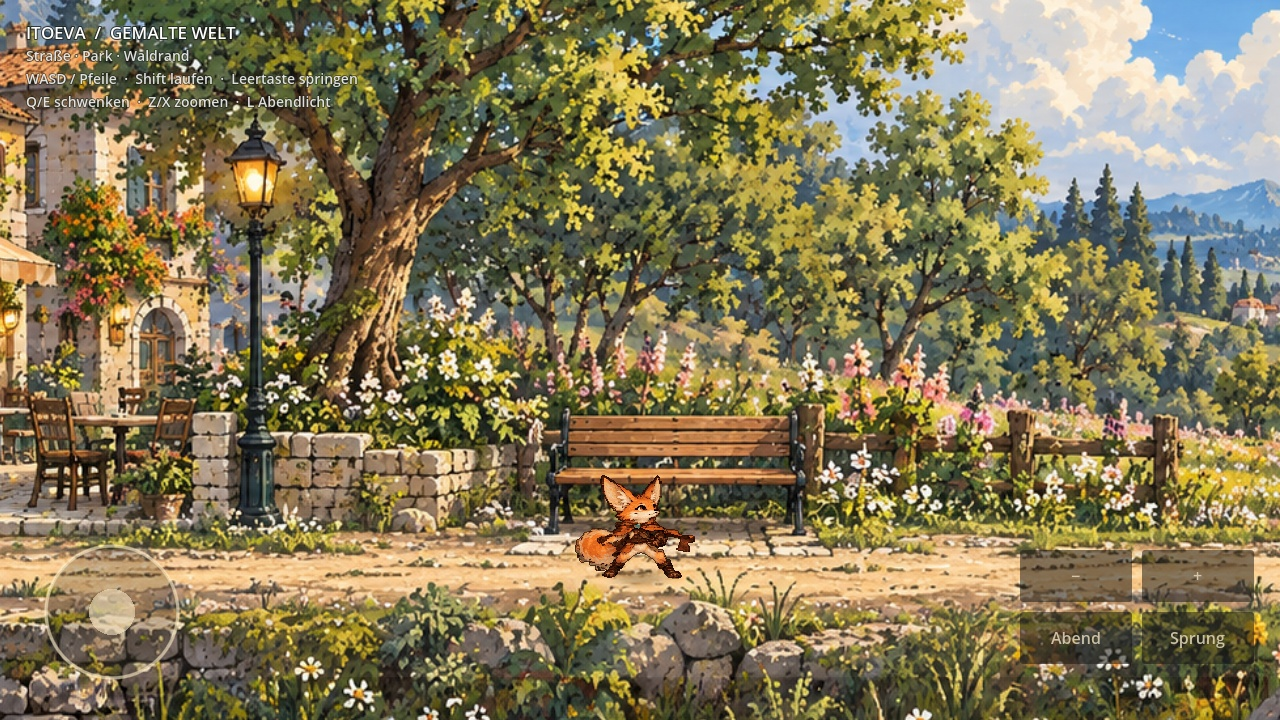
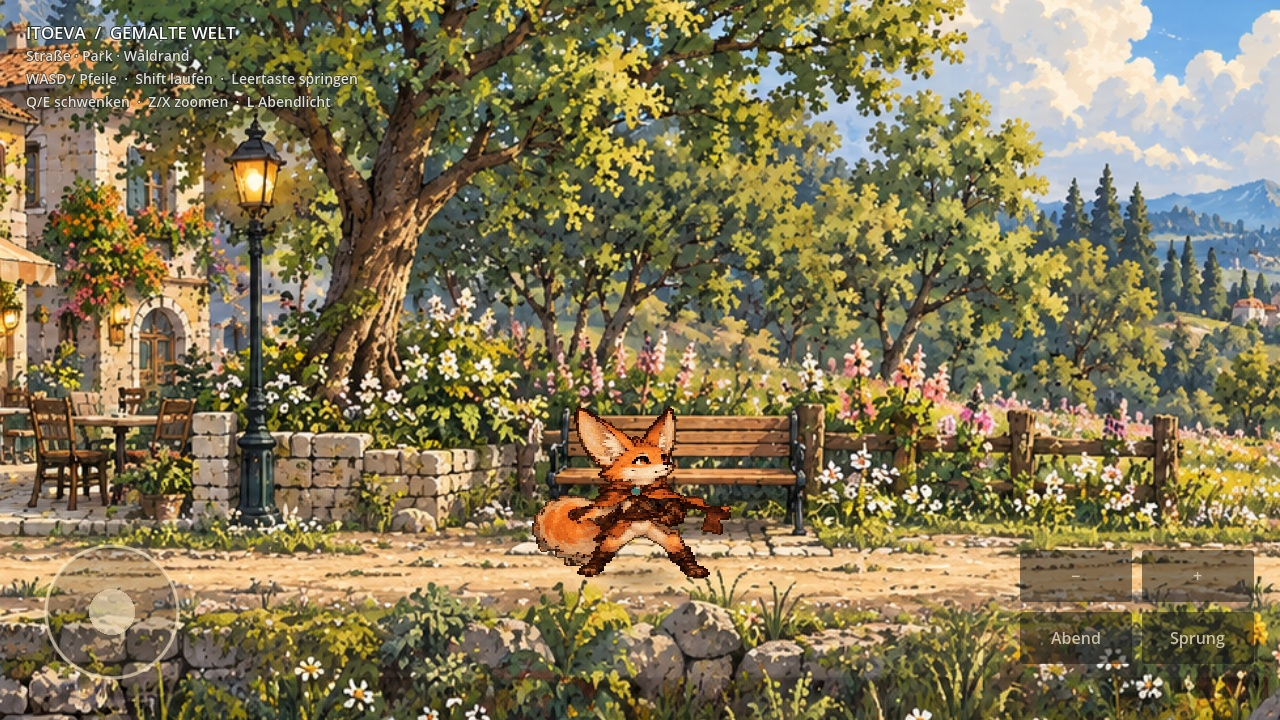
Build Godot Android prototype and match Fennec scale to painted world

Changed region(s): [[0.4062, 0.55, 0.5938, 0.825]]

diff --git a/prototypes/godot-hd2d/README.md b/prototypes/godot-hd2d/README.md
@@ -9,7 +9,24 @@ Basis: `main` auf `124186c77f20954321008b0bf373a1527562f11a`.
 In **Godot 4.5.1** `project.godot` importieren und mit F6/F5 starten.
 Die benoetigten Bilder liegen bereits im Projekt; Python wird zum Spielen nicht gebraucht.
 Desktop: `godot --path prototypes/godot-hd2d` aus dem Repository.
-Der Compatibility-Renderer funktioniert ohne Vulkan; Android ist das spaetere Testziel.
+Der Compatibility-Renderer funktioniert ohne Vulkan. Die Test-APK unterstuetzt
+ARM64-Geraete ab Android 7 und startet als separate App **Itoeva Godot**.
+
+## Android-APK v0.1.2
+
+Godot 4.5.1 mit Android-Exportvorlagen, Java 17 und Android SDK Build-Tools 35.0.1
+verwenden. Java-/SDK-Pfade und den eigenen Debug-Keystore in den Editor-Einstellungen
+eintragen; keine Schluessel ins Repository kopieren.
+
+```bash
+godot --headless --path prototypes/godot-hd2d --export-debug Android /absoluter/pfad/Itoeva_Godot_HD2D_v0.1.2.apk
+```
+
+Das Exportpreset baut eine signierte Debug-APK mit Paket `com.itoeva.godot.hd2d`,
+Version 0.1.2 / Code 2, ARM64, Querformat und ohne Internetberechtigung.
+Tests, Vorschauen und Capture-Dateien werden ausgeschlossen. Die ausgelieferte
+APK ist 31.024.552 Bytes gross; ZIP-Integritaet und APK-Signatur v2/v3 sind geprueft.
+Ein Start auf einem Android-Telefon ist noch nicht geprueft.
 
 | Eingabe | Wirkung |
 |---|---|
@@ -31,6 +48,9 @@ Der Compatibility-Renderer funktioniert ohne Vulkan; Android ist das spaetere Te
   Zeile in einen 12x12-Atlas umgepackt. 1536px statt 17664px Breite vermeiden mobile
   Texturlimits. Fussanker 126, Richtungen und Rollen aus `CreatureSprites.Rich`.
   Naechste-Nachbar-Filter, aufrechte 2D-Karte (`Sprite3D`), keine 3D-Figur und kein Rig.
+  Pixelmassstab 0.020 beruecksichtigt die 35-Grad-Kamera: die Kopf-/Fuss-Spanne
+  entspricht rund 87 Bildpixeln in der nativen 640px-Kulisse, innerhalb ihrer
+  65..108px-Tiefenskalierung. Kollisionskoerper und Bodenschatten sind angepasst.
 - Echter `CharacterBody3D`, begehbarer Boden, Kartenraender, Bank und Lampensockel;
   Bank kann als erhoehte Standflaeche genutzt werden. Schatten folgt der Standflaeche.
 - Sanfte orthografische Folge-Kamera, Zoom und begrenzter Schwenk. Die Original-
@@ -48,8 +68,9 @@ godot --headless --path prototypes/godot-hd2d --script res://tests/smoke.gd
 godot --path prototypes/godot-hd2d --script res://tests/capture.gd
 ```
 
-`smoke.gd` prueft mit echter Godot-Physik Boden, Bewegung, Bank, Sprung/Landung,
-Standflaechenschatten, Kartenraender, Kamerasicht an beiden Raendern bei kleinem Zoom,
+`smoke.gd` prueft in 43 Checks den projizierten Figurenmassstab und mit echter Godot-Physik Boden, Bewegung, Bank, Sprung/Landung,
+Standflaechenschatten, Kartenraender und die ganze Spritekarte an beiden Raendern
+bei beiden Zoomgrenzen, drei Schwenkwinkeln und vorderem/hinterem Laufstreifen,
 Lichtwechsel sowie zwei gleichzeitig eingespeiste ScreenTouch-Ereignisse.
 `capture.gd` schreibt echte Godot-Renderings nach `captures/` (nicht eingecheckt).
 Die ausgewaehlten Renderings stehen in `preview/`. Sie sind Desktop-Aufnahmen mit
@@ -67,7 +88,7 @@ der Originalmalerei bleiben eingebrannt; Bankverdeckung und ihr Sitzanker sind
 naeherungsweise, eine allgemeine Tiefenmaske fuer jedes Blatt/Moebel fehlt noch.
 Blatt-/Wasseranimation, Innenraeume, Tueren, Bewohner, Living-Agent-System, Kampfsystem
 und Android-Spielstaende sind nicht angebunden. Die Android-App wird durch diesen
-Prototyp nicht umgestellt; kein APK-Export und keine Telefonmessung sind erfolgt.
+Prototyp nicht umgestellt; eine separate Debug-APK ist exportiert, eine Telefonmessung fehlt.
 
 Zuerst diesen Ausschnitt in Godot bzw. auf dem Telefon visuell abnehmen. Danach
 Bank-/Baum-Silhouetten einzeln auf Tiefenkarten legen und den Eingang zum Haus

diff --git a/EVOLUTION.md b/EVOLUTION.md
@@ -669,6 +669,33 @@ sein:
 Die Historie darf nicht zu einer bloßen Commit-Liste werden. Sie soll erklären, warum sich Itoeva
 verändert hat, welche Identität dabei geschützt wurde und welche Unsicherheit weiterhin besteht.
 
+### 2026-10-10 - Godot-Test-APK und passender Fennec-Massstab (godot-painted-hd2d-apk-v012)
+
+- **DOCUMENTED INTENT:** Martin fordert eine APK und die erneute Pruefung von
+  Fennecs Groesse in der vorhandenen gemalten Kulisse.
+- **Beobachteter Fehler / Korrektur:** Der erste Sprite-Massstab 0.012 liess die
+  Figur neben der Bank zu klein wirken. 0.020 beruecksichtigt die Verkuerzung
+  einer aufrechten Karte durch die 35-Grad-Kamera: 83 Quellpixel Kopf/Fuss ergeben
+  rund 87 projizierte Pixel in der 640px-Referenzwelt, innerhalb der nativen
+  65..108px-Tiefenskalierung. Capsule und Bodenschatten wachsen passend mit.
+  Die 138 Zeichnungen und das Figurendesign bleiben pixel-identisch. Seitliche
+  Laufgrenzen reservieren Platz fuer die ganze Figur; die Kamerahoehe wird bei
+  Schwenk am vorderen Weg durch den projizierten Fussanker begrenzt.
+- **FACT / APK:** Godot-4.5.1-Debug-Export, ARM64 ab API 24, Target API 35,
+  Version 0.1.2 / Code 2, Paket `com.itoeva.godot.hd2d`, eigene App Itoeva Godot.
+  Keine Internetberechtigung; Vorschauen, Tests und Captures ausgeschlossen.
+  Debug-Signierung ausserhalb des Repositorys, keine Aenderung an nativen
+  Gradle-/Signing-/Persistenzvertraegen.
+- **TESTED BEHAVIOR:** Originalasset-Vergleich, 43 Godot-Laufzeitchecks inklusive
+  projizierter Koerperhoehe und aller Spritekartenecken in 24 Rand-/Zoom-/Schwenk-/
+  Tiefenkombinationen; aktuelle echte Desktop-Renderings visuell geprueft.
+  APK exportiert, ZIP-Integritaet, ARM64-Bibliotheken, Manifest und v2/v3-Signatur
+  geprueft. Groesse 31.024.552 Bytes. Zweites CODE-Review gemaess Repositoryregel.
+- **UNVERIFIED / Grenze:** Android-Start, GPU-Verhalten und Leistung auf einem
+  echten Telefon sind noch nicht gemessen. Die bekannte Relief-/Verdeckungsgrenze
+  des Prototyps bleibt bestehen. Ruecksetzen durch Revert dieser isolierten
+  Prototype-Aenderungen; keine Datenmigration.
+
 ### 2026-10-10 - Gemalter Godot-Ausschnitt mit originaler 2D-Figur (godot-painted-hd2d-v1)
 
 - **DOCUMENTED INTENT / ausdruecklicher Nutzerauftrag:** Martin moechte erneut

diff --git a/Architecture.md b/Architecture.md
@@ -38,7 +38,9 @@ Abschnitt öffnen:
 gemalten Aussenbereich in eine begehbare 3D-Buehne mit der vorhandenen 2D-Figur.
 Es ist ein separat startbarer Grafik-/Steuerungsversuch, kein Ersatz fuer die
 Android-Runtime. Keine Verbindung zu Room, Remindern, Living-Agent-Persistenz oder
-Gradle. Start, Originalasset-Nachweis, Tests und Grenzen stehen in dessen README.
+Gradle. Das Android-Exportpreset liefert eine separate ARM64-Debug-App mit Paket
+`com.itoeva.godot.hd2d`; Schluessel und lokale SDK-Pfade liegen ausserhalb des Projekts.
+Start, Originalasset-Nachweis, Tests und Grenzen stehen in dessen README.
 
 Drei Gradle-Module, ein gemeinsamer Kern:
 
